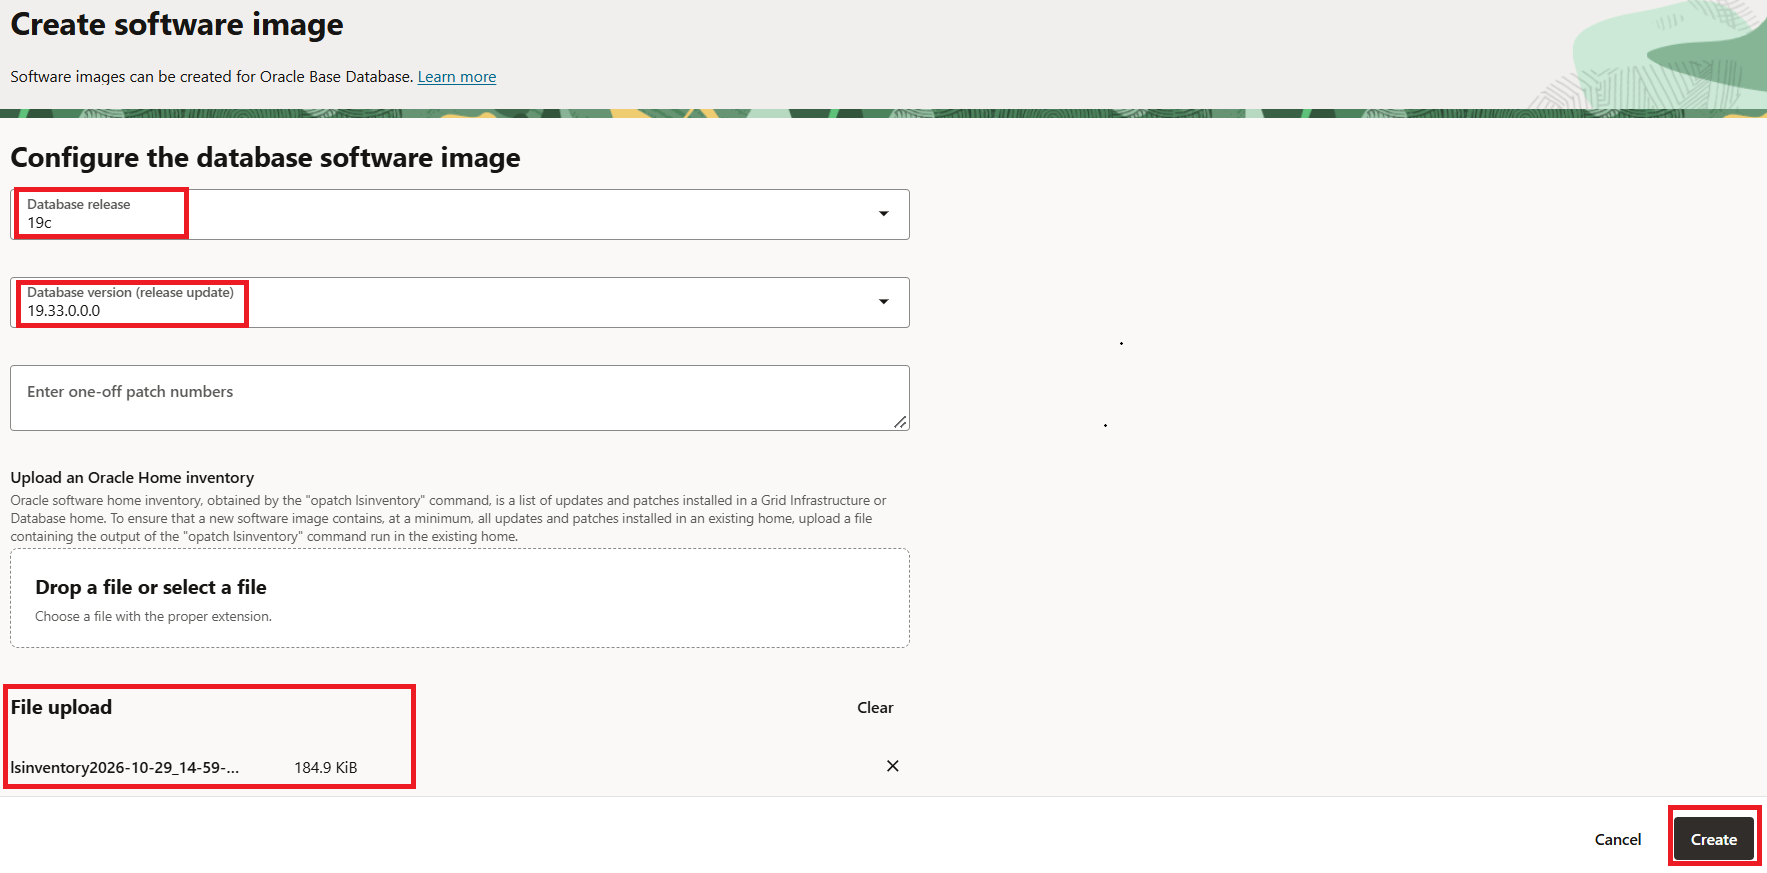
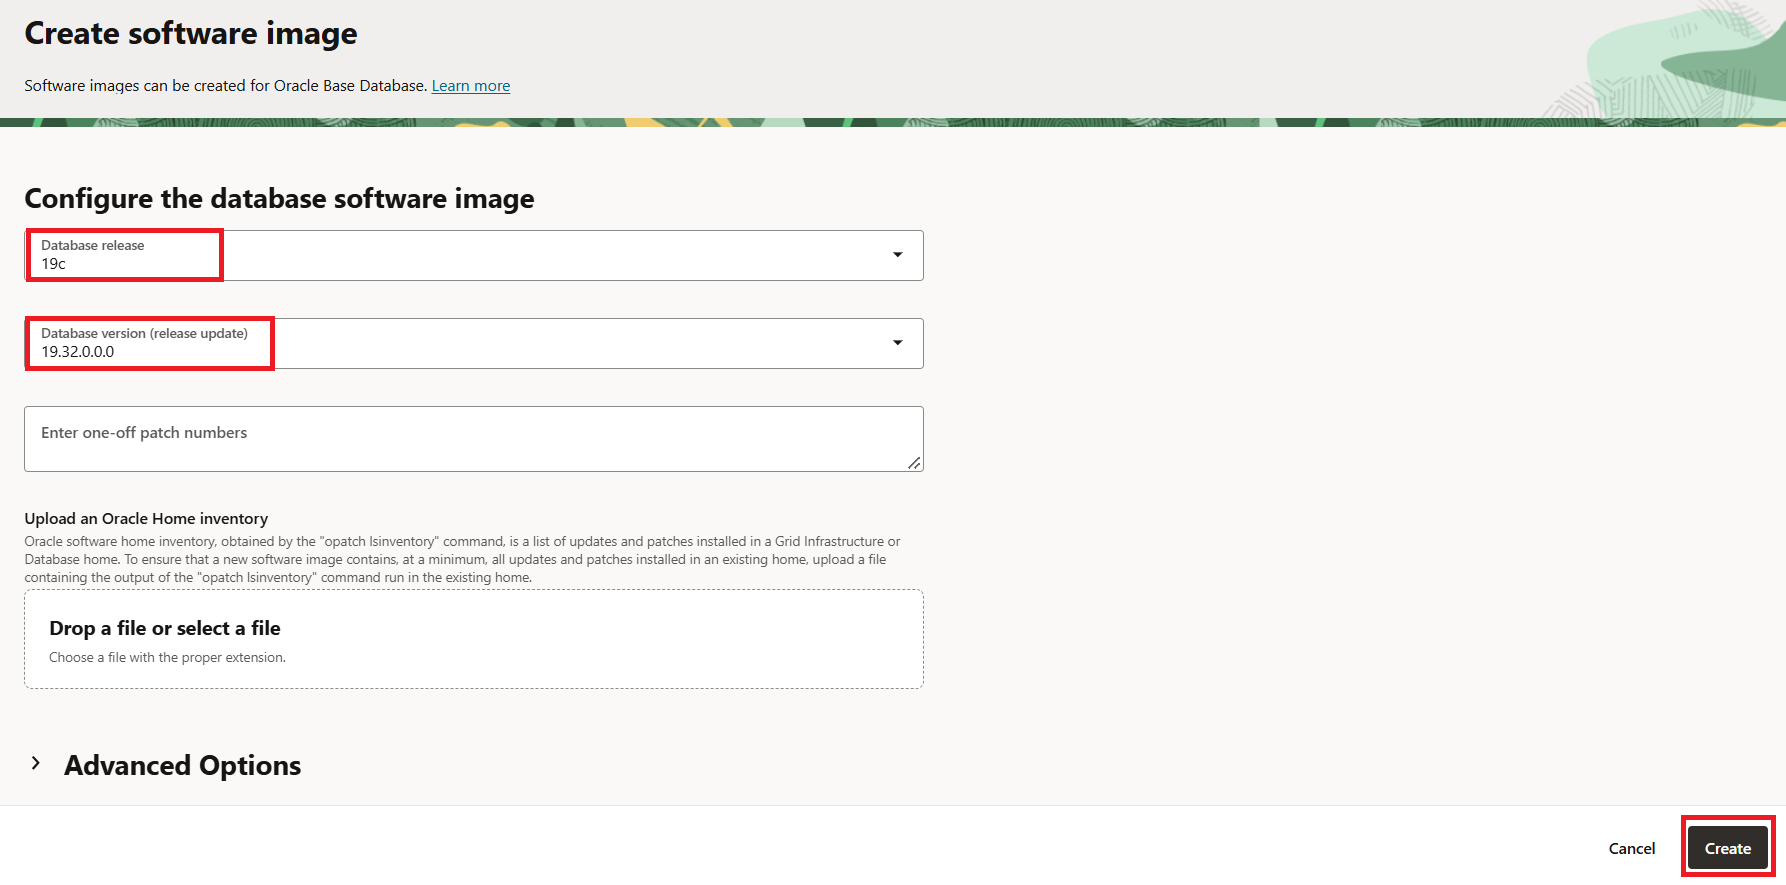
commit

diff --git a/zdm-physical-online-direct-data-transfer/target-db-provision/target-db-provision.md b/zdm-physical-online-direct-data-transfer/target-db-provision/target-db-provision.md
@@ -143,9 +143,9 @@ In this lab
 
    Database version: 19c (same as the major version of your source database).
 
-   Database Version Release Update: **19.33.0.0.0** ( Please ensure that you are selecting a version which is same or higher version than source database).
+   Database Version Release Update: **19.32.0.0.0** ( Please ensure that you are selecting a version which is same or higher version than source database).
 
-   Upload Oracle Home patch inventory output generated in earlier step (Task 1 step 6).
+   one-off patches : Specify the one-off patches applicable on the target database home. You can leave it null for this Lab since there are no specific one-off patches applied on source database.
 
    ![Image showing database version selected for Image ](./images/lab3-t2-s4.png)
 
